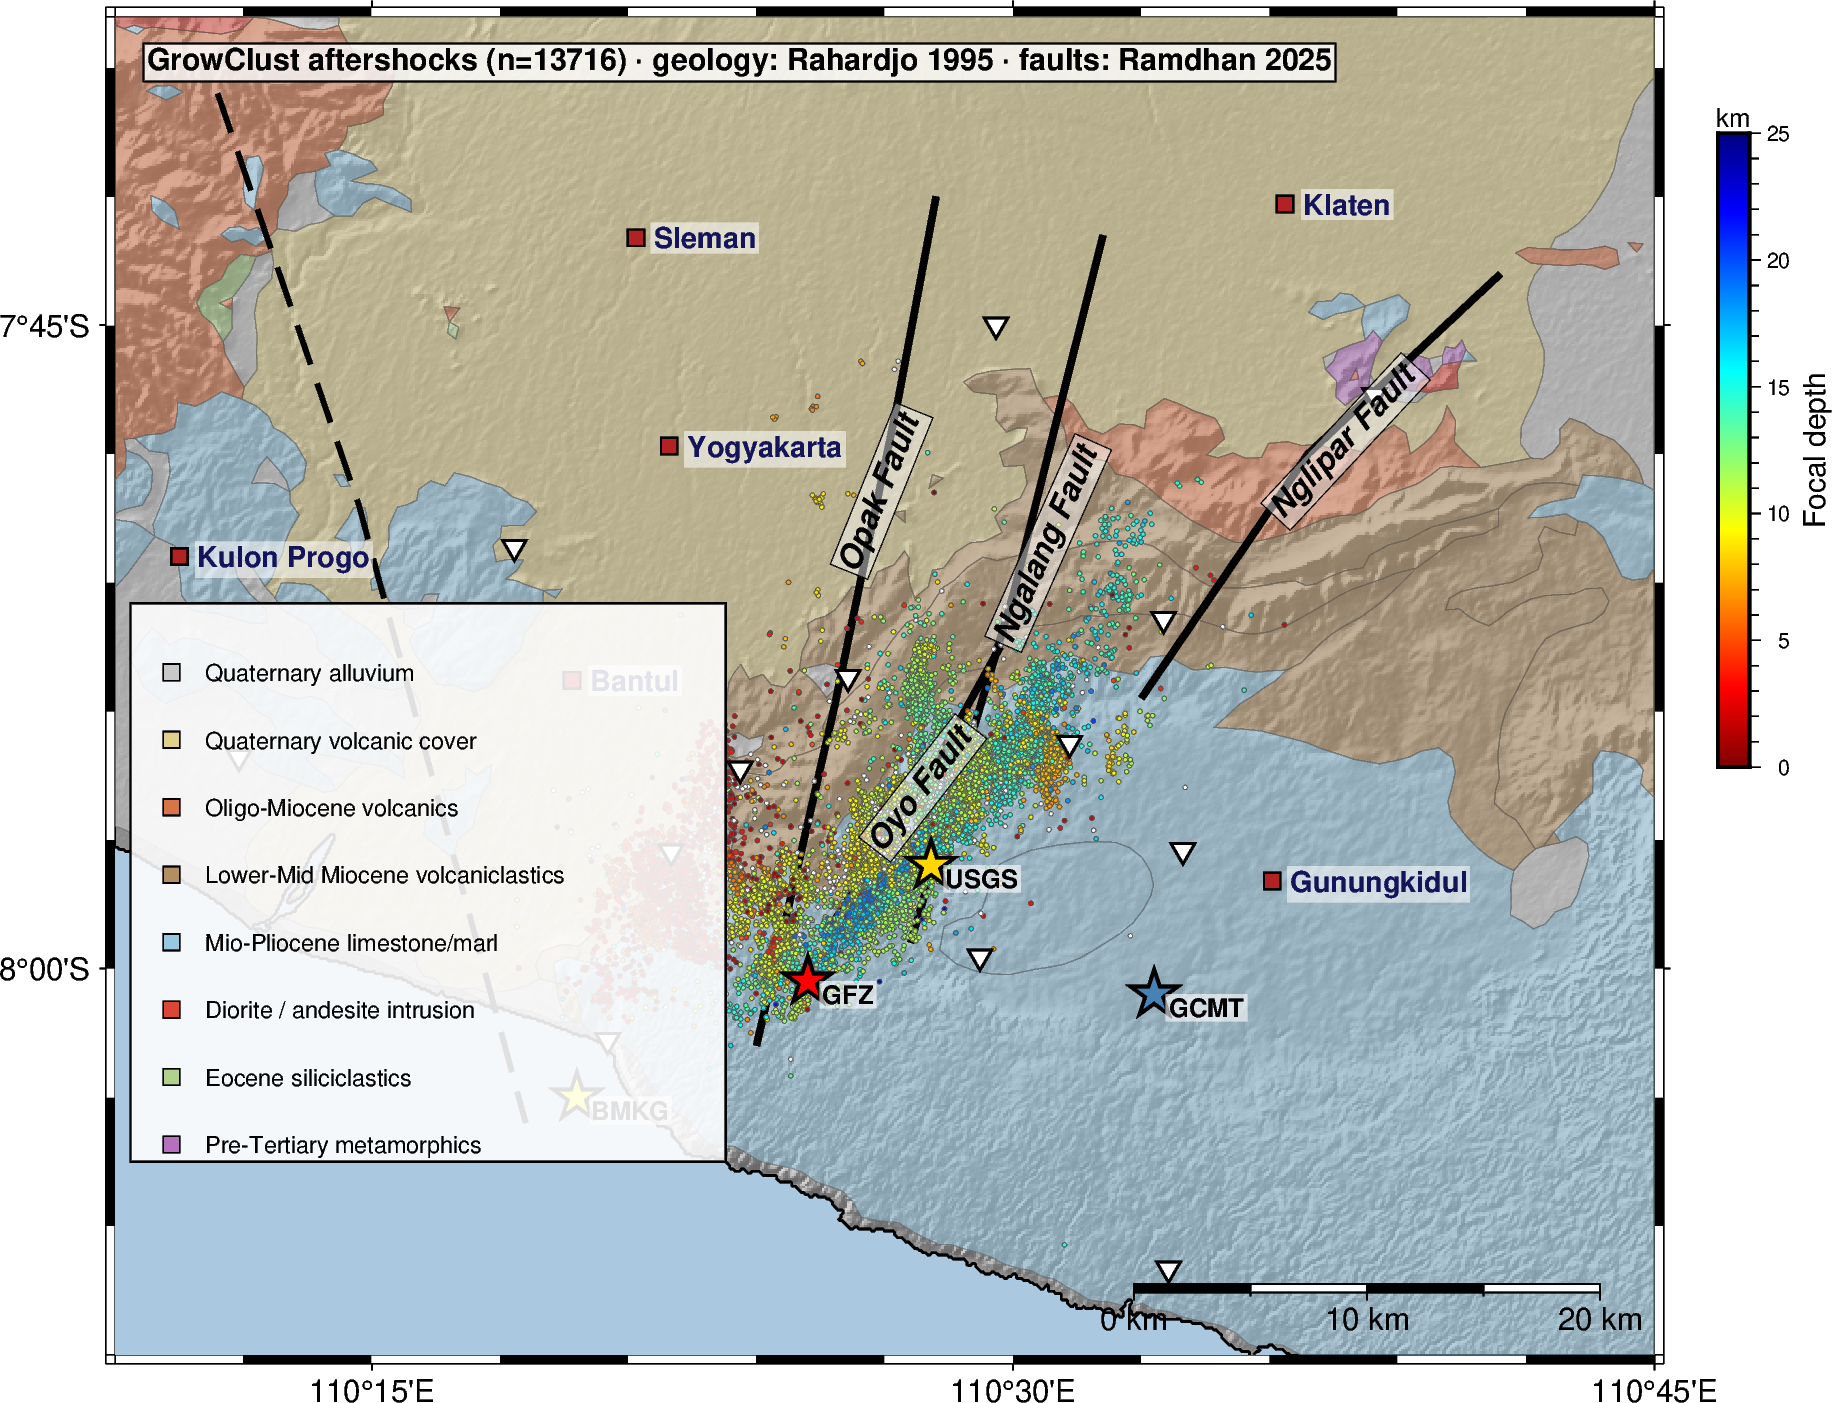
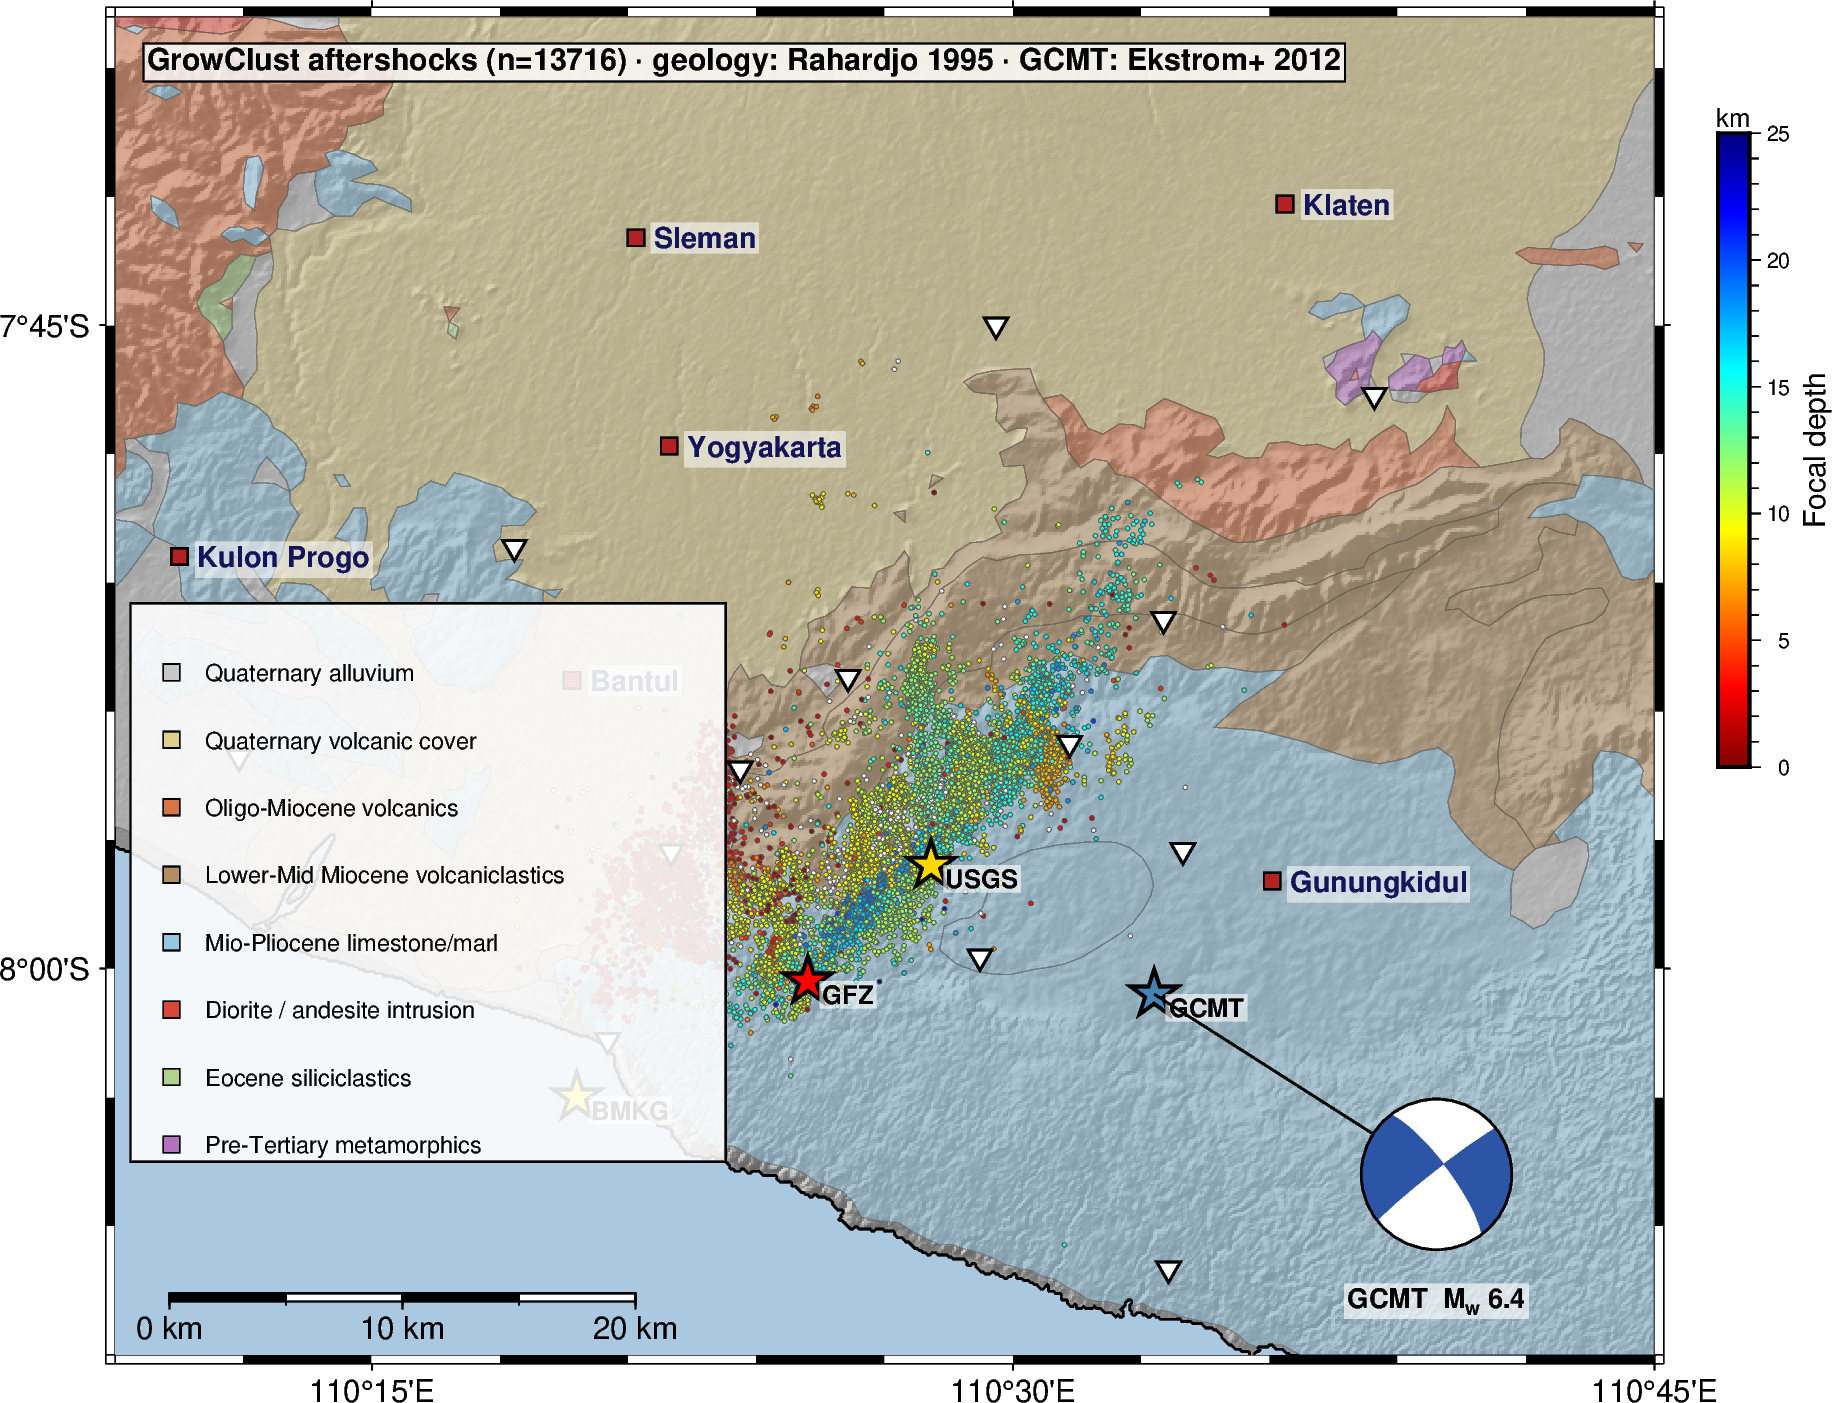
Geology map: remove digitized faults (positions uncertain), add GCMT beachball (Mw6.4 left-lateral)

diff --git a/eqt/scripts/plot_geology_map.py b/eqt/scripts/plot_geology_map.py
@@ -66,9 +66,6 @@ def main():
         if len(sub): fig.plot(data=sub, fill=color, transparency=42, pen="0.2p,80/80/80@50")
     fig.coast(region=REGION, projection=PROJ, water="170/200/224",
               shorelines="0.7p,black", resolution="f")
-    # faults
-    for nm,pts in FAULTS.items(): fig.plot(data=[[x,y] for x,y in pts], pen="2.2p,black")
-    fig.plot(data=[[x,y] for x,y in MURIA], pen="1.6p,black,--")
     # aftershocks
     pygmt.makecpt(cmap="jet", series=[0,25], reverse=True)
     fig.plot(x=e.longitude, y=e.latitude, fill=e.depth, cmap=True, style="c0.05c",
@@ -78,8 +75,12 @@ def main():
     for nm,lo,la,c in MAIN:
         fig.plot(x=[lo],y=[la],style="a0.55c",fill=c,pen="1p,black")
         fig.text(x=lo,y=la,text=nm,font="8p,Helvetica-Bold,black",justify="TL",offset="0.16c/-0.04c",fill="white@40")
-    for nm,(lo,la,ang) in FLABEL.items():
-        fig.text(x=lo,y=la,text=nm,angle=ang,font="10p,Helvetica-BoldOblique,black",fill="white@55",pen="0.2p")
+    # GCMT focal mechanism (2006 Yogya Mw6.4; NP2 strike232/dip86/rake-13 -> left-lateral strike-slip)
+    fig.meca(spec={"strike":232,"dip":86,"rake":-13,"magnitude":6.4}, scale="1.3c",
+             longitude=110.555, latitude=-8.010, depth=12,
+             plot_longitude=110.665, plot_latitude=-8.080, offset=True,
+             compressionfill="45/85/165", extensionfill="white", pen="0.7p,black")
+    fig.text(x=110.665,y=-8.128,text="GCMT  M@-w@- 6.4",font="8.5p,Helvetica-Bold,black",justify="MC",fill="white@35")
     for nm,lo,la in CITIES:
         fig.plot(x=[lo],y=[la],style="s0.26c",fill="firebrick",pen="0.6p,black")
         fig.text(x=lo,y=la,text=nm,font="9p,Helvetica-Bold,20/20/90",justify="LM",offset="0.2c/0c",fill="white@45")
@@ -93,9 +94,9 @@ def main():
         yy=ytop-i*dy
         fig.plot(x=[x0],y=[yy],style="s0.26c",fill=color,pen="0.4p,black")
         fig.text(x=x0+0.013,y=yy,text=lab,font="7.3p,Helvetica,black",justify="LM")
-    fig.basemap(map_scale="jBR+w20k+o0.6c/0.6c+f+u")
+    fig.basemap(map_scale="jBL+w20k+o0.6c/0.5c+f+u")
     fig.text(x=REGION[0]+0.008,y=REGION[3]-0.008,
-             text=f"GrowClust aftershocks (n={len(e)}) \\267 geology: Rahardjo 1995 \\267 faults: Ramdhan 2025",
+             text=f"GrowClust aftershocks (n={len(e)}) \\267 geology: Rahardjo 1995 \\267 GCMT: Ekstrom+ 2012",
              font="9.5p,Helvetica-Bold,black",justify="TL",offset="0.12c/-0.12c",fill="white@20",pen="0.5p")
     out=f"{ROOT}/figures/growclust_geology_map.png"
     fig.savefig(out,dpi=230); print(f"n={len(e)}, geology polys={len(g)}; wrote {out}")
